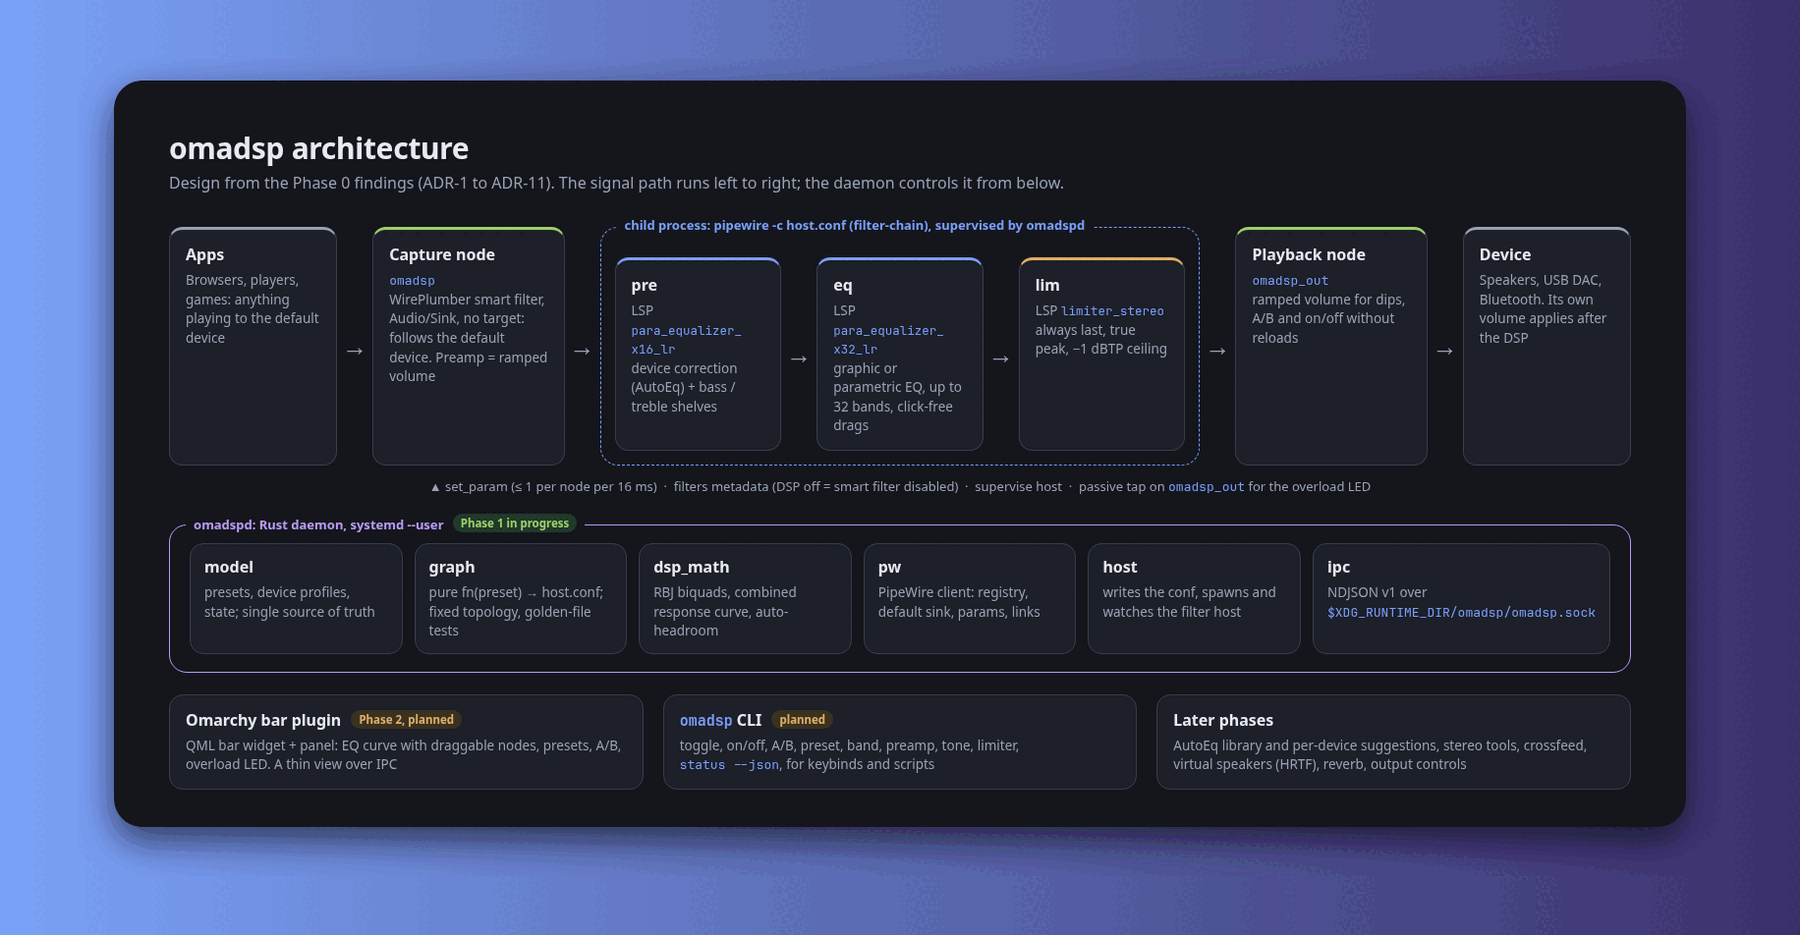
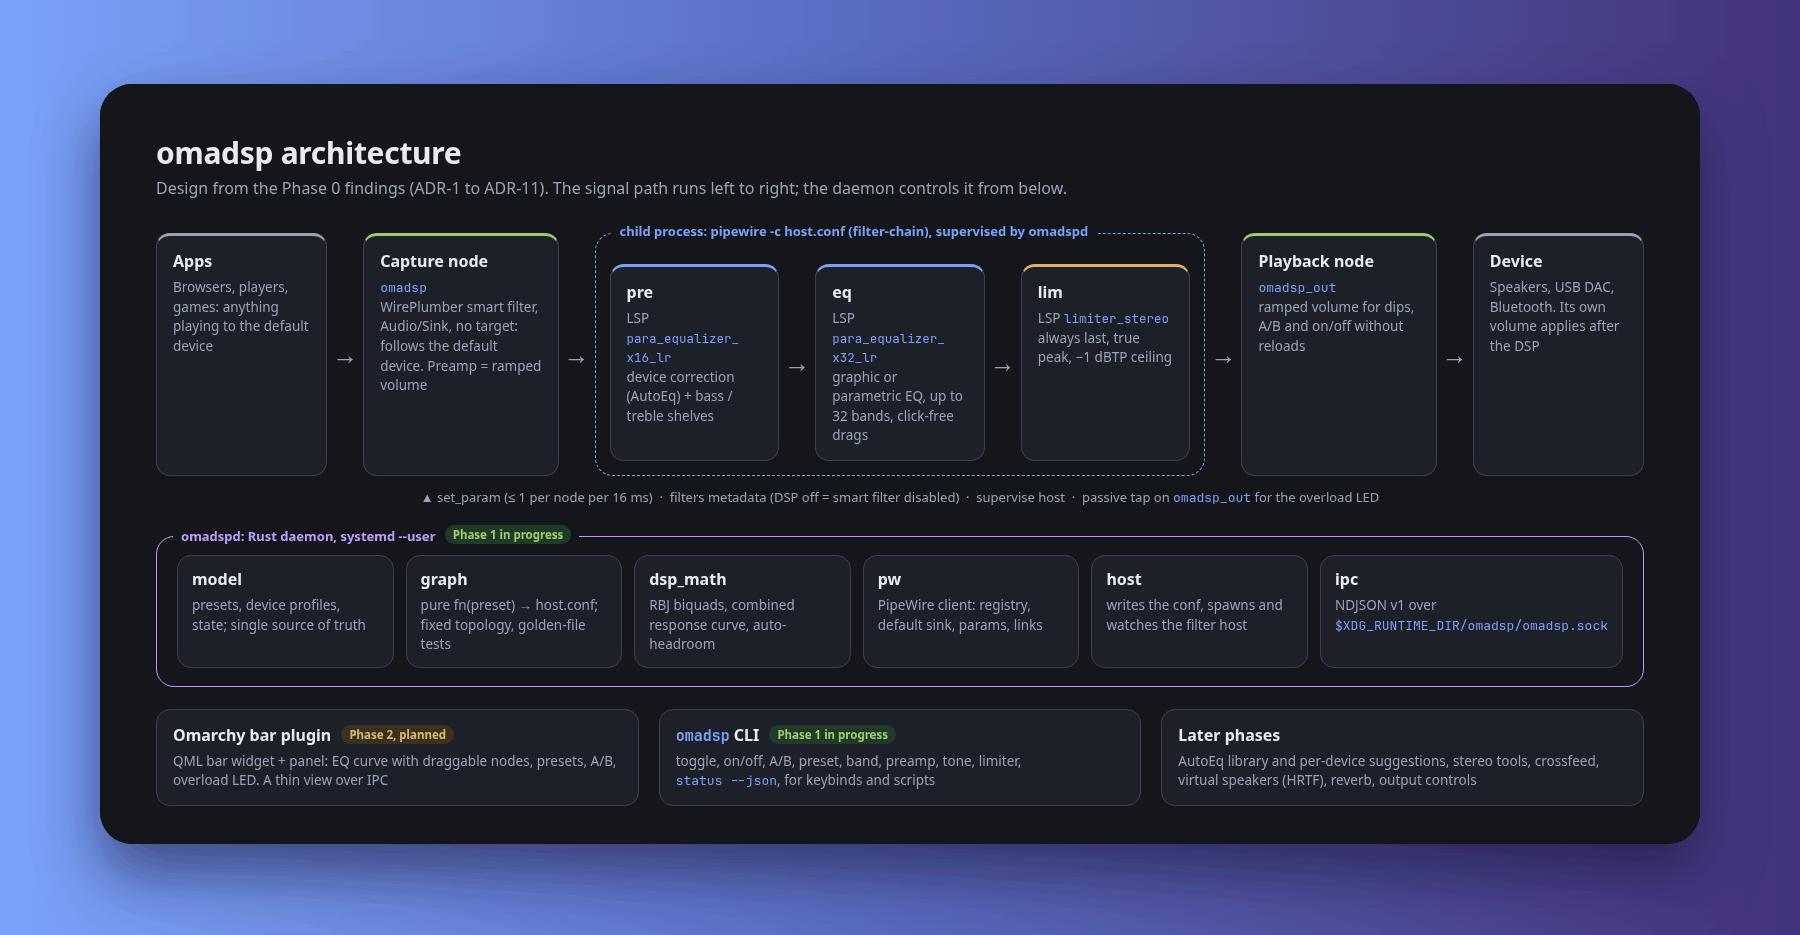
README: plain-language, step-by-step layout
Rewrite for non-developers: plain tagline and feature bullets, a phase
table showing what is done and planned, a Mermaid "how it works" in
plain labels, and an FAQ. Build steps, ADRs and credits fold into
details blocks. The repo is public, so drop "(private)" from the clone
step. Re-render the architecture diagram: the omadsp CLI is now being
built in Phase 1, not just planned.

Changed region(s): [[0.0311, 0.093, 0.9644, 0.9615], [0.0933, 0.062, 0.9333, 0.093], [0.8089, 0.2171, 0.9022, 0.3722]]

diff --git a/docs/architecture.html b/docs/architecture.html
@@ -67,7 +67,7 @@
 
   <div class="ctl">
     <div class="box"><h3>Omarchy bar plugin <span class="chip planned">Phase 2, planned</span></h3><p>QML bar widget + panel: EQ curve with draggable nodes, presets, A/B, overload LED. A thin view over IPC</p></div>
-    <div class="box"><h3><span class="mono" style="font-size:15px">omadsp</span> CLI <span class="chip planned">planned</span></h3><p>toggle, on/off, A/B, preset, band, preamp, tone, limiter, <span class="mono nw">status --json</span>, for keybinds and scripts</p></div>
+    <div class="box"><h3><span class="mono" style="font-size:15px">omadsp</span> CLI <span class="chip wip">Phase 1 in progress</span></h3><p>toggle, on/off, A/B, preset, band, preamp, tone, limiter, <span class="mono nw">status --json</span>, for keybinds and scripts</p></div>
     <div class="box"><h3>Later phases</h3><p>AutoEq library and per-device suggestions, stereo tools, crossfeed, virtual speakers (HRTF), reverb, output controls</p></div>
   </div>
 </div></body></html>

diff --git a/README.md b/README.md
@@ -1,64 +1,159 @@
 <h1 align="center">
   <br>
-  <a href="https://github.com/sudharamachandranrajeev/omadsp"><img src="docs/logo.svg" alt="omadsp" width="120"></a>
+  <a href="https://github.com/sudharamachandranrajeev/omadsp"><img src="docs/logo.svg" alt="omadsp" width="140"></a>
   <br>
   omadsp
   <br>
 </h1>
 
-<h4 align="center">A Poweramp-style, system-wide audio DSP for Omarchy: PipeWire's own filter-chain, a Rust daemon, and a bar plugin.</h4>
+<h4 align="center">Make everything your Omarchy computer plays sound better: an equaliser for all apps, controlled from the bar.</h4>
 
 <p align="center">
-  <img src="https://img.shields.io/badge/status-Phase%201%20in%20progress-e0af68" alt="Status: Phase 1 in progress">
-  <img src="https://img.shields.io/badge/PipeWire-1.6.6%2B-7aa2f7" alt="PipeWire 1.6.6+">
-  <img src="https://img.shields.io/badge/Rust-1.85%2B-b7410e?logo=rust&logoColor=white" alt="Rust 1.85+">
-  <img src="https://img.shields.io/badge/Omarchy-4-bb9af7" alt="Omarchy 4">
-  <img src="https://img.shields.io/badge/LSP%20Plugins-LV2-9ece6a" alt="LSP Plugins LV2">
+  <img src="https://img.shields.io/badge/status-in%20development-e0af68" alt="Status: in development">
+  <img src="https://img.shields.io/badge/works%20on-Omarchy%204-bb9af7" alt="Works on Omarchy 4">
+  <img src="https://img.shields.io/badge/needs-PipeWire%201.6.6%2B-7aa2f7" alt="Needs PipeWire 1.6.6 or newer">
+  <img src="https://img.shields.io/badge/licence-not%20chosen%20yet-555" alt="Licence not chosen yet">
 </p>
 
 <p align="center">
-  <a href="#key-features">Key Features</a> •
-  <a href="#how-to-use">How To Use</a> •
-  <a href="#download">Download</a> •
-  <a href="#credits">Credits</a> •
-  <a href="#related">Related</a> •
-  <a href="#license">License</a>
+  <a href="#-what-it-will-do">What it will do</a> •
+  <a href="#-where-it-stands">Where it stands</a> •
+  <a href="#-how-it-works">How it works</a> •
+  <a href="#-faq">FAQ</a> •
+  <a href="#%EF%B8%8F-for-developers">For developers</a>
 </p>
 
 <p align="center">
-  <img src="docs/screenshots/hero.png" alt="omadsp architecture diagram" width="100%">
+  <img src="docs/screenshots/hero.png" alt="omadsp architecture: apps flow through an equaliser and a limiter to your speakers, controlled by a background service" width="100%">
 </p>
 
-> **Work in progress, not usable yet.** omadsp has no user interface so far, so the image above is an
-> **architecture diagram**, not a screenshot (source: [docs/architecture.html](docs/architecture.html)). Phase 0
-> (research and spikes) is done; Phase 1 (the daemon core) is being built on the
-> [`phase1-daemon`](https://github.com/sudharamachandranrajeev/omadsp/tree/phase1-daemon) branch. `main` holds the
-> build prompt and the Phase 0 plan.
+omadsp is a system-wide sound equaliser for [Omarchy](https://omarchy.org), in the spirit of
+Poweramp on Android. It shapes the sound of every app at once, and you control it from a button
+in the bar. It uses the sound system already on your computer (PipeWire), with no extra audio
+app. Status: **in development, not usable yet**. There is no app or user interface so far, so
+the picture above is a design diagram, not a screenshot.
 
-## Key Features
+## ✨ What it will do
 
-What omadsp is designed to do (from [PROMPT.md](PROMPT.md) and the
-[Phase 0 findings](https://github.com/sudharamachandranrajeev/omadsp/blob/phase1-daemon/docs/2026-10-12-phase0-findings.md)):
+- 🎚 **One equaliser for everything** – browsers, music players and games all go through it.
+  Change the sound once, not in every app.
+- 🎛 **Easy or detailed** – simple sliders, or up to 32 precise bands (parametric EQ), plus bass
+  and treble.
+- 🎧 **Tuned per device** – each set of headphones or speakers gets its own settings, with
+  correction curves from the [AutoEq](https://github.com/jaakkopasanen/AutoEq) library.
+- 🔇 **Never distorts** – it lowers the level ahead of a boost and adds a safety limiter, so
+  loud parts never crackle (clip). A light shows if a song still overloads.
+- 🤫 **No clicks or gaps** – drag a slider, switch presets or turn it off while music plays,
+  without a pop.
+- 🅰 **Before / after** – hold A/B to hear the difference.
+- 🛟 **Safe by design** – switched off or flat, the sound is untouched. If omadsp crashes, the
+  music keeps playing.
+- 🔭 **Later** – stereo width, crossfeed for headphones, virtual speakers, reverb and
+  bit-perfect output.
 
-* **Transparent and safe** – with the DSP flat or off, output is bit-identical to no DSP; it never clips, never hijacks app routing, and audio keeps playing if the daemon dies.
-* **Native** – PipeWire filter-chain in a WirePlumber smart filter for audio, a systemd user service for the daemon, an Omarchy bar plugin (QML) for the UI. No EasyEffects, JamesDSP or extra audio server.
-* **Follows your device** – a targetless smart filter that tracks the default output; streams that target another device are left alone.
-* **Click-free EQ** – graphic or parametric EQ, up to 32 bands per channel, on LSP `para_equalizer` (PipeWire's builtin biquads click on every change).
-* **Device correction and tone** – an AutoEq layer per device plus bass / treble shelves.
-* **Never clips** – automatic headroom preamp and an LSP true-peak limiter, always last (−1 dBTP default).
-* **Glitch-free A/B and on/off** – a fixed graph topology with ramped volume dips, so nothing you drag causes a reload.
-* **Overload LED** – from a daemon-side tap on the filter output.
-* **Poweramp-grade UX (planned)** – bar widget and panel with a draggable response curve, presets per device, AutoEq library with suggestions, A/B hold.
-* **Later phases (planned)** – stereo tools (balance, width, mono), crossfeed, virtual speakers (HRTF), reverb, volume leveler, output controls and bit-perfect mode.
+## 🚦 Where it stands
+
+There is nothing to install yet. The project is built in phases, and each phase is planned and
+approved before work starts.
+
+| Phase | What it delivers | State |
+| --- | --- | --- |
+| 0 | Research and test runs: does the design hold up? | ✅ Done ([findings](https://github.com/sudharamachandranrajeev/omadsp/blob/phase1-daemon/docs/2026-10-12-phase0-findings.md)) |
+| 1 | The background service (daemon) and the `omadsp` command | 🔨 In progress on the [`phase1-daemon`](https://github.com/sudharamachandranrajeev/omadsp/tree/phase1-daemon) branch: code written, tests under way |
+| 2 | The bar button and panel: power, presets, EQ, tone, limiter, overload light, A/B | Planned |
+| 3 | Detailed EQ with a response curve, AutoEq library, settings per device | Planned |
+| 4 | Space and effects: balance, width, mono, crossfeed, virtual speakers, reverb | Planned |
+| 5 | Output: sample rate, bit depth, Bluetooth codec, bit-perfect mode | Planned |
+| 6 | Package and install guide | Planned |
+
+This `main` branch holds the plan. The code lives on `phase1-daemon` until Phase 1 is done.
+
+## 🧭 How it works
+
+```mermaid
+flowchart LR
+    A["🎵 Your apps"] --> F["🎚 omadsp sound filter<br/>device fix → EQ → limiter"]
+    F --> D["🔊 Your speakers<br/>or headphones"]
+    S["⚙ omadsp service<br/>runs in the background"] -.->|"sets the sliders"| F
+    B["🖱 Bar button<br/>or omadsp command"] --> S
+```
+
+- **The sound filter** sits between your apps and your speakers. It follows whichever device is
+  the default, and leaves alone any app that you sent to a different device.
+- **It runs in its own process.** If it fails, the design lets the sound fall through straight
+  to the device.
+- **The background service** holds your presets and moves the sliders. It never rebuilds the
+  filter while you listen, so nothing clicks.
+- **Your volume keys still work** as before. They act on the device, after omadsp.
+
+In tests the equaliser and limiter used under 1 % of one CPU core and added 5 ms of delay.
+
+## ❓ FAQ
 
 <details>
-<summary><b>Key decisions from Phase 0</b></summary>
+<summary><b>Can I use it today?</b></summary>
+
+Not yet. Phase 1 builds the background service and a command-line tool. The bar button comes in
+Phase 2. Watch this repository for the first release.
+</details>
+
+<details>
+<summary><b>Will it mess up my sound setup?</b></summary>
+
+It is designed not to. It never makes itself the default device and never moves apps between
+devices. Every file it writes outside the project carries a "Managed by omadsp" header, and it
+refuses to overwrite files it did not create. Off or flat, the goal is sound that is
+bit-for-bit unchanged.
+</details>
+
+<details>
+<summary><b>Why not EasyEffects or JamesDSP?</b></summary>
+
+omadsp uses PipeWire's own filter system and the bar that Omarchy already runs. There is no
+second audio server and no separate window to keep open.
+</details>
+
+<details>
+<summary><b>What will it need?</b></summary>
+
+Omarchy 4, PipeWire 1.6.6 or newer, WirePlumber 0.5 and the `lsp-plugins-lv2` package (the
+equaliser and limiter come from [LSP Plugins](https://lsp-plug.in)).
+</details>
+
+## 🛠 For developers
+
+<details>
+<summary>Build and test the Phase 1 code</summary>
+
+You need [Git](https://git-scm.com), [Rust](https://www.rust-lang.org) 1.85 or newer, PipeWire
+1.6.6 or newer and `lsp-plugins-lv2`.
+
+```bash
+git clone https://github.com/sudharamachandranrajeev/omadsp
+cd omadsp
+git switch phase1-daemon   # the daemon code lives here for now
+
+cargo build                # omadsp-core library, omadspd daemon, omadsp command
+cargo test                 # unit and golden-file tests
+```
+
+- `UPDATE_GOLDEN=1 cargo test -p omadsp-core --test golden` rewrites the graph golden files in
+  `tests/golden/`. Review the diff.
+- The integration tests (`tests/integration/*.sh`) and the Phase 0 spikes (`spikes/`) play only
+  into a private silent sink (`omadsp_spike_out`). Nothing reaches your speakers or default device.
+- The diagram above is [docs/architecture.html](docs/architecture.html), screenshotted at
+  1600 × 760.
+
+</details>
+
+<details>
+<summary>Key design decisions from Phase 0</summary>
 
 * **ADR-1** Targetless WirePlumber smart filter, never the default sink.
 * **ADR-2** The filter-chain runs in a separate `pipewire -c` host process supervised by `omadspd`: crash isolation decides.
-* **ADR-3** LSP `para_equalizer` in APO mode, not builtin biquads; flat or unused bands are switched off.
+* **ADR-3** LSP `para_equalizer` in APO mode, not builtin biquads (they click on every change); flat or unused bands are switched off.
 * **ADR-4** Fixed topology `omadsp` → `pre` (x16) → `eq` (x32) → `lim` → `omadsp_out`; dips, A/B and on/off without reloads (a reload costs ~0.1 s plus a click).
-* **ADR-5** LSP `limiter_stereo`, last, always on while the DSP is on.
+* **ADR-5** LSP `limiter_stereo`, last, always on while the DSP is on (−1 dBTP default).
 * **ADR-6** No Poweramp-style DVC in v1: Omarchy's volume keys, OSD and slider always act on the device, after the DSP.
 * **ADR-7** Overload LED from a hand-linked passive capture on `omadsp_out`.
 * **ADR-8** Spatial via the SOFA spatializer with calibrated gain; the HeSuVi example is not shipped.
@@ -66,45 +161,19 @@ What omadsp is designed to do (from [PROMPT.md](PROMPT.md) and the
 * **ADR-10** Validate every graph input; on a filter error, stop the host so audio falls through to the device.
 * **ADR-11** NDJSON IPC, CLI and plugin as in PROMPT.md.
 
-Measured in Phase 0: LSP EQ + limiter used 0.27–0.66 % of one core, with 5.0 ms added latency (7.6 ms with true
-peak), which is the limiter's lookahead.
+Measured in Phase 0: LSP EQ + limiter used 0.27–0.66 % of one core, with 5.0 ms added latency
+(7.6 ms with true peak), which is the limiter's lookahead.
 
 </details>
 
-## How To Use
+**Documents:**
+[PROMPT.md](PROMPT.md) (goals, feature map, architecture and phases) ·
+[Phase 0 plan](docs/2026-10-12-phase0-plan.md) ·
+[Phase 0 findings](https://github.com/sudharamachandranrajeev/omadsp/blob/phase1-daemon/docs/2026-10-12-phase0-findings.md)
+(test results, decisions, risks and the Phase 1 plan)
 
-There is nothing to install yet. To follow development you'll need [Git](https://git-scm.com),
-[Rust](https://www.rust-lang.org) 1.85+, PipeWire 1.6.6+ and `lsp-plugins-lv2`:
-
-```bash
-# Clone this repository (private)
-$ git clone https://github.com/sudharamachandranrajeev/omadsp
-
-# Go into the repository
-$ cd omadsp
-
-# Switch to the branch with the daemon code
-$ git switch phase1-daemon
-
-# Build the workspace (omadsp-core library + omadspd daemon) and run the unit and golden-file tests
-$ cargo build
-$ cargo test
-```
-
-* Golden files for the graph generator live in `tests/golden/`; `UPDATE_GOLDEN=1 cargo test -p omadsp-core --test golden` rewrites them (review the diff).
-* Integration tests (`tests/integration/*.sh`) and the Phase 0 spikes (`spikes/`) run only on a private null sink
-  (`omadsp_spike_out`): nothing reaches the speakers or the default device.
-* The project is phase-gated: each phase is planned and approved before it is built, and nothing is written outside
-  the repo without showing the diff first ([PROMPT.md §2](PROMPT.md)).
-
-## Download
-
-No downloads yet. The plan is to ship the daemon as a separate package (PKGBUILD) and the bar plugin through
-Omarchy's plugin system, which documents the daemon as a dependency.
-
-## Credits
-
-omadsp builds on:
+<details>
+<summary>Credits</summary>
 
 - [PipeWire](https://pipewire.org) filter-chain and [WirePlumber](https://pipewire.pages.freedesktop.org/wireplumber/) smart filters
 - [LSP Plugins](https://lsp-plug.in) (`para_equalizer`, `limiter_stereo`) via LV2
@@ -112,11 +181,7 @@ omadsp builds on:
 - [Omarchy](https://omarchy.org) and [Quickshell](https://quickshell.org) for the bar plugin
 - [AutoEq](https://github.com/jaakkopasanen/AutoEq) (planned headphone correction library) and [Poweramp](https://powerampapp.com) for the inspiration
 
-## Related
-
-* [PROMPT.md](PROMPT.md) – the build prompt: goals, feature map, architecture and phases
-* [docs/2026-10-12-phase0-plan.md](docs/2026-10-12-phase0-plan.md) – Phase 0 recon and spike plan
-* [Phase 0 findings](https://github.com/sudharamachandranrajeev/omadsp/blob/phase1-daemon/docs/2026-10-12-phase0-findings.md) – spike results, ADRs, risks and the Phase 1 plan
+</details>
 
 ## License
 
